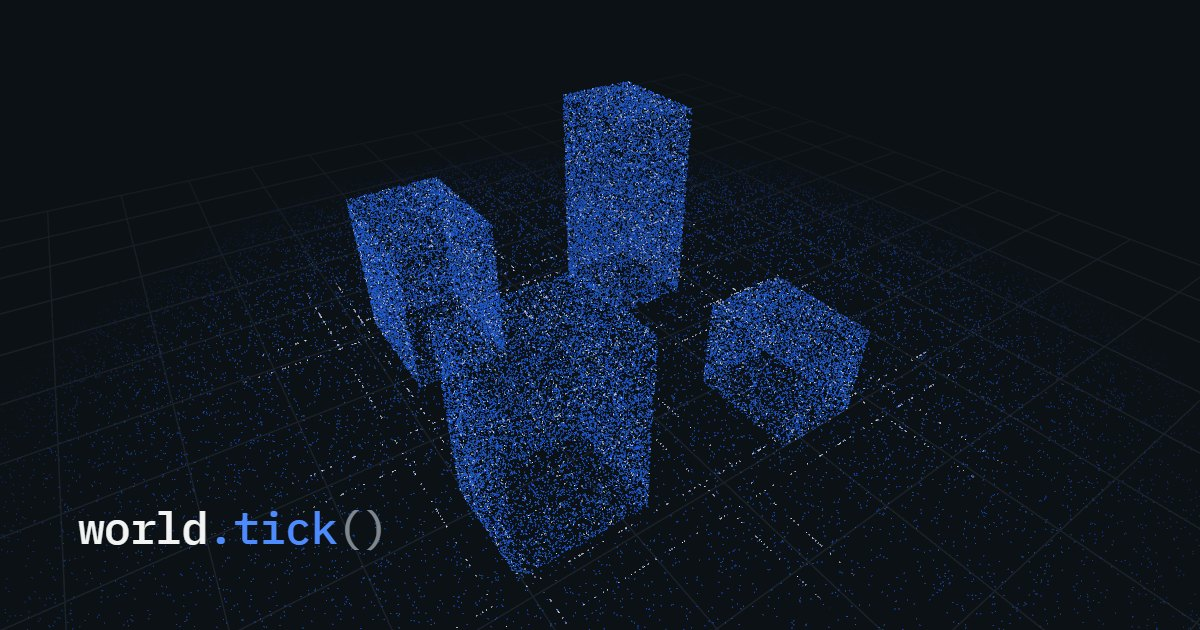
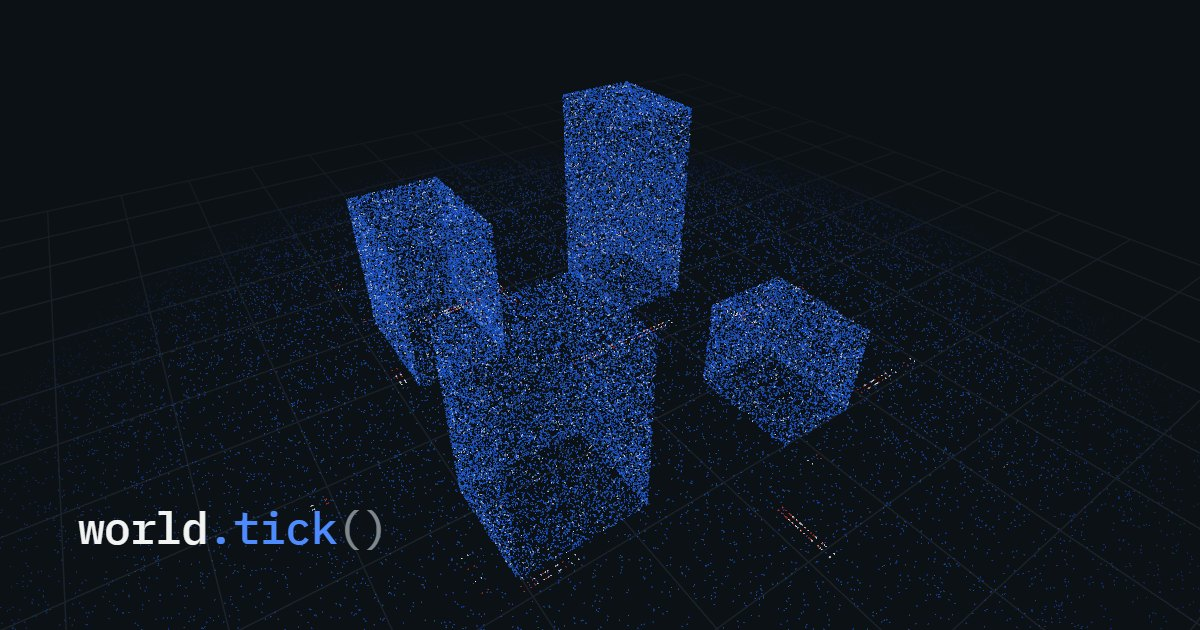
Model each vehicle as four lamps, and thin the traffic out
One point per vehicle was too coarse and there was far too much of it. Each
vehicle is now two headlights and two tail lights offset in the lane frame,
which reads as a car with a direction rather than a drifting spark, and lets
the vehicle count drop from 950 to 120.

Density is variable rather than uniform: lanes draw their own load from a
low-skewed distribution so most run quiet and a couple run busy, busier lanes
run slower, and vehicles cluster into platoons instead of spacing evenly. A
conveyor belt of equidistant dots was the main thing making it look synthetic.

Red tail lights are the only warm colour on the site and a deliberate break
from the single-accent rule — they convey heading with no legend, and are
dimmed so they never compete with the blue.

diff --git a/js/scene-cloud.js b/js/scene-cloud.js
@@ -28,7 +28,10 @@ const COLOR = {
   signal:   new THREE.Color('#0B5FFF'),
   dim:      new THREE.Color('#3D6E9E'),
   hot:      new THREE.Color('#DCE6F2'),
-  traffic:  new THREE.Color('#EAF1FA'),
+  head:     new THREE.Color('#F4F8FF'),
+  // The one warm colour on the page. It earns its place: red tail lights are
+  // what tell you which way a vehicle is facing, at a glance, with no legend.
+  tail:     new THREE.Color('#D8402C'),
 };
 
 /* Ease over 90 ticks with up to 30 ticks of stagger — 120 ticks at 60Hz, so
@@ -53,6 +56,18 @@ const AVENUES = [0, -10.5, 10.5];
 const STREET_EXTENT = 17;
 const ROAD_Y = 0.12;
 
+/* A vehicle is four lamps, not one point: two headlights forward, two tail
+ * lights back. At this scale that is what makes a moving dot read as a car
+ * with a direction rather than as a drifting spark. */
+const HALF_LENGTH = 0.30;   // front axle to rear, halved
+const HALF_TRACK = 0.13;    // lamp separation across the body, halved
+const LAMPS = [
+  { long:  1, lat: -1, tail: false },
+  { long:  1, lat:  1, tail: false },
+  { long: -1, lat: -1, tail: true },
+  { long: -1, lat:  1, tail: true },
+];
+
 export const CAMERA = {
   fov: 50,
   lookAt: [0, 3.5, 0],
@@ -76,9 +91,10 @@ export const CAMERA = {
 export function createCloudScene({ quality = 'high' } = {}) {
   const low = quality === 'low';
   const count = low ? 34000 : 64000;
-  // Deliberately sparse. Traffic has to read as discrete vehicles; pack the
-  // lanes and it turns into a solid glowing line.
-  const trafficCount = low ? 460 : 950;
+  // Deliberately sparse, and four lamps each — so this is ~4x the point count
+  // but a small fraction of the vehicles. Pack the lanes and it stops reading
+  // as traffic and starts reading as a glowing line.
+  const vehicleCount = low ? 70 : 120;
 
   const group = new THREE.Group();
 
@@ -135,7 +151,7 @@ export function createCloudScene({ quality = 'high' } = {}) {
   /* ---- traffic ---- */
 
   const traffic = buildTraffic({
-    trafficCount, uTick, uResolveTick, uPixelScale, uFadeNear, uFadeFar, bgColor,
+    vehicleCount, uTick, uResolveTick, uPixelScale, uFadeNear, uFadeFar, bgColor,
   });
   group.add(traffic.object);
 
@@ -174,31 +190,56 @@ export function createCloudScene({ quality = 'high' } = {}) {
 /* ---------- Traffic ---------- */
 
 function buildTraffic({
-  trafficCount, uTick, uResolveTick, uPixelScale, uFadeNear, uFadeFar, bgColor,
+  vehicleCount, uTick, uResolveTick, uPixelScale, uFadeNear, uFadeFar, bgColor,
 }) {
   const lanes = buildLanes();
+  const vehicles = placeVehicles(lanes, vehicleCount);
+  const pointCount = vehicles.length * LAMPS.length;
 
-  const a = new Float32Array(trafficCount * 3);
-  const b = new Float32Array(trafficCount * 3);
-  const speed = new Float32Array(trafficCount);
-  const phase = new Float32Array(trafficCount);
-  const colour = new Float32Array(trafficCount * 3);
+  const a = new Float32Array(pointCount * 3);
+  const b = new Float32Array(pointCount * 3);
+  const offset = new Float32Array(pointCount * 3);
+  const speed = new Float32Array(pointCount);
+  const phase = new Float32Array(pointCount);
+  const colour = new Float32Array(pointCount * 3);
 
   const c = new THREE.Color();
+  let p = 0;
 
-  for (let i = 0; i < trafficCount; i++) {
-    const lane = lanes[i % lanes.length];
-    const o = i * 3;
-    a[o] = lane.a[0]; a[o + 1] = lane.a[1]; a[o + 2] = lane.a[2];
-    b[o] = lane.b[0]; b[o + 1] = lane.b[1]; b[o + 2] = lane.b[2];
+  for (const v of vehicles) {
+    const { lane } = v;
+    // Lanes are axis-aligned, so the body frame is constant per vehicle and
+    // the lamp offsets can be baked into world space here. The shader then
+    // only has to add a vector.
+    const dx = lane.b[0] - lane.a[0];
+    const dz = lane.b[2] - lane.a[2];
+    const len = Math.hypot(dx, dz) || 1;
+    const fx = dx / len, fz = dz / len;        // forward
+    const lx = -fz, lz = fx;                   // left
 
-    // Coherent speed per lane with a little jitter. Fully random speeds read
-    // as noise; a shared lane speed reads as flow.
-    speed[i] = lane.speed * (0.88 + Math.random() * 0.24);
-    phase[i] = Math.random();
+    for (const lamp of LAMPS) {
+      const o = p * 3;
+      a[o] = lane.a[0]; a[o + 1] = lane.a[1]; a[o + 2] = lane.a[2];
+      b[o] = lane.b[0]; b[o + 1] = lane.b[1]; b[o + 2] = lane.b[2];
 
-    c.copy(COLOR.traffic).lerp(COLOR.signal, Math.random() * 0.45);
-    colour[o] = c.r; colour[o + 1] = c.g; colour[o + 2] = c.b;
+      offset[o]     = fx * lamp.long * HALF_LENGTH + lx * lamp.lat * HALF_TRACK;
+      offset[o + 1] = 0;
+      offset[o + 2] = fz * lamp.long * HALF_LENGTH + lz * lamp.lat * HALF_TRACK;
+
+      // Every lamp on a vehicle shares its motion, or the car pulls apart.
+      speed[p] = v.speed;
+      phase[p] = v.phase;
+
+      if (lamp.tail) {
+        // Tail lights are much dimmer than headlights in reality, and a field
+        // of full-brightness red would fight the blue for attention.
+        c.copy(COLOR.tail).lerp(COLOR.viewport, 0.15);
+      } else {
+        c.copy(COLOR.head);
+      }
+      colour[o] = c.r; colour[o + 1] = c.g; colour[o + 2] = c.b;
+      p++;
+    }
   }
 
   const geometry = new THREE.BufferGeometry();
@@ -206,6 +247,7 @@ function buildTraffic({
   geometry.setAttribute('position', new THREE.BufferAttribute(a, 3));
   geometry.setAttribute('aA', new THREE.BufferAttribute(a, 3));
   geometry.setAttribute('aB', new THREE.BufferAttribute(b, 3));
+  geometry.setAttribute('aOffset', new THREE.BufferAttribute(offset, 3));
   geometry.setAttribute('aSpeed', new THREE.BufferAttribute(speed, 1));
   geometry.setAttribute('aPhase', new THREE.BufferAttribute(phase, 1));
   geometry.setAttribute('aColor', new THREE.BufferAttribute(colour, 3));
@@ -218,12 +260,13 @@ function buildTraffic({
   const t = uTick.mul(attribute('aSpeed', 'float')).add(attribute('aPhase', 'float')).fract();
 
   const material = new THREE.PointsNodeMaterial();
-  material.positionNode = mix(aA, aB, t);
+  material.positionNode = mix(aA, aB, t).add(attribute('aOffset', 'vec3'));
 
   const depth = positionView.z.negate().max(float(0.001));
-  // Larger than the structure points: these are the only things moving, and
-  // at 1px a moving point just reads as noise.
-  material.sizeNode = uPixelScale.mul(0.16).div(depth).clamp(2.0, 9.0);
+  // Smaller than when one point was a whole vehicle — these are individual
+  // lamps, and they have to stay distinguishable as four rather than merging
+  // into one blob at mid distance.
+  material.sizeNode = uPixelScale.mul(0.105).div(depth).clamp(1.5, 6.0);
 
   // Much gentler than the structure fade: these are lights, and they should
   // stay legible into the distance rather than sinking into the background.
@@ -247,24 +290,69 @@ function buildTraffic({
   };
 }
 
-/* Two opposing lanes on every avenue, in both directions. */
+/* Two opposing lanes on every avenue, in both directions. Each lane carries
+ * its own traffic level, so some run busy and some run nearly empty. */
 function buildLanes() {
   const lanes = [];
   const E = STREET_EXTENT;
 
+  // Skewed low: most streets should be quiet, a couple busy. A uniform draw
+  // makes every lane look about the same, which is the thing to avoid.
+  const density = () => 0.12 + Math.random() ** 2.1 * 1.5;
+
+  const add = (a, b, speed) => {
+    const load = density();
+    lanes.push({
+      a, b, load,
+      // Busier lanes run slower. Cheap, and it sells the whole thing.
+      speed: speed * (1.16 - load * 0.28),
+    });
+  };
+
   for (const at of AVENUES) {
     // Ticks to traverse the full lane — roughly 9 to 14 seconds.
     const zSpeed = 1 / (520 + Math.random() * 300);
-    // Running along Z, at fixed X.
-    lanes.push({ a: [at + LANE_OFFSET, ROAD_Y, -E], b: [at + LANE_OFFSET, ROAD_Y, E], speed: zSpeed });
-    lanes.push({ a: [at - LANE_OFFSET, ROAD_Y, E], b: [at - LANE_OFFSET, ROAD_Y, -E], speed: zSpeed * 1.08 });
+    add([at + LANE_OFFSET, ROAD_Y, -E], [at + LANE_OFFSET, ROAD_Y, E], zSpeed);
+    add([at - LANE_OFFSET, ROAD_Y, E], [at - LANE_OFFSET, ROAD_Y, -E], zSpeed * 1.08);
 
     const xSpeed = 1 / (520 + Math.random() * 300);
-    // Running along X, at fixed Z.
-    lanes.push({ a: [-E, ROAD_Y, at - LANE_OFFSET], b: [E, ROAD_Y, at - LANE_OFFSET], speed: xSpeed });
-    lanes.push({ a: [E, ROAD_Y, at + LANE_OFFSET], b: [-E, ROAD_Y, at + LANE_OFFSET], speed: xSpeed * 1.08 });
+    add([-E, ROAD_Y, at - LANE_OFFSET], [E, ROAD_Y, at - LANE_OFFSET], xSpeed);
+    add([E, ROAD_Y, at + LANE_OFFSET], [-E, ROAD_Y, at + LANE_OFFSET], xSpeed * 1.08);
   }
   return lanes;
+}
+
+/* Distribute vehicles across lanes by load, and clump them within a lane.
+ * Evenly spaced traffic looks like a conveyor belt; real traffic arrives in
+ * platoons with gaps between, which is also what makes a low vehicle count
+ * still read as a working street. */
+function placeVehicles(lanes, vehicleCount) {
+  const totalLoad = lanes.reduce((s, l) => s + l.load, 0);
+  const vehicles = [];
+
+  for (const lane of lanes) {
+    const n = Math.round((vehicleCount * lane.load) / totalLoad);
+    if (n === 0) continue;
+
+    const platoons = 1 + Math.floor(Math.random() * 3);
+    const centres = Array.from({ length: platoons }, () => Math.random());
+
+    for (let i = 0; i < n; i++) {
+      const centre = centres[i % platoons];
+      const spread = 0.04 + Math.random() * 0.07;
+      // Sum of two uniforms — triangular, so vehicles bunch toward the centre
+      // of their platoon rather than spreading evenly across it.
+      const jitter = (Math.random() + Math.random() - 1) * spread;
+      const phase = ((centre + jitter) % 1 + 1) % 1;
+
+      vehicles.push({
+        lane,
+        phase,
+        speed: lane.speed * (0.94 + Math.random() * 0.12),
+      });
+    }
+  }
+  return vehicles;
 }
 
 /* ---------- Massing ---------- */

diff --git a/README.md b/README.md
@@ -47,7 +47,7 @@ The page is readable before any of the 3D arrives:
 | 4 | WebGPU | Full scene |
 
 Point count is chosen by **viewport width, not by backend**: under 500px it
-drops to 34k structure points and 460 vehicles, above it 64k and 950. Both
+drops to 34k structure points and 70 vehicles, above it 64k and 120. Both
 backends render whichever they are given.
 
 `js/tick.js` is the spine. It runs a fixed 60Hz accumulator decoupled from
@@ -79,6 +79,31 @@ vehicles are near-white. Terrain is dimmed and gets no highlights, so the eye
 finds the moving points immediately instead of hunting for them in a sparkly
 ground plane. Breaking that rule is the fastest way to make the traffic
 illegible.
+
+### Vehicles
+
+A vehicle is **four lamps, not one point** — two headlights forward, two tail
+lights back, offset in the lane's own frame. Because the lanes are axis
+aligned, those offsets are baked into world space on the CPU, so the shader
+only adds a vector. All four lamps share a vehicle's speed and phase; give
+them their own and the car pulls apart.
+
+Red tail lights are the only warm colour on the site, and a deliberate
+departure from the spec's single-accent rule. They earn it: they tell you
+which way a vehicle is facing instantly, with no legend. They are dimmed
+toward the background so they never compete with the blue.
+
+Two constants govern legibility, and they trade against each other:
+`HALF_LENGTH`/`HALF_TRACK` set how far apart the lamps sit, and the lamp
+`sizeNode` factor sets how big each one is. Push the size up and the four
+merge into one blob at mid distance; push it down and vehicles disappear.
+
+Density is **variable by design.** Each lane draws its own load from a
+low-skewed distribution, so most streets run quiet and one or two run busy,
+and busier lanes run slower. Within a lane, vehicles are clustered into one to
+three platoons rather than spaced evenly — evenly spaced traffic looks like a
+conveyor belt, and clustering is what lets a low vehicle count still read as a
+working street.
 
 Under `prefers-reduced-motion`, re-run still works — it generates a new block
 and jumps straight to the resolved frame with no animation.
